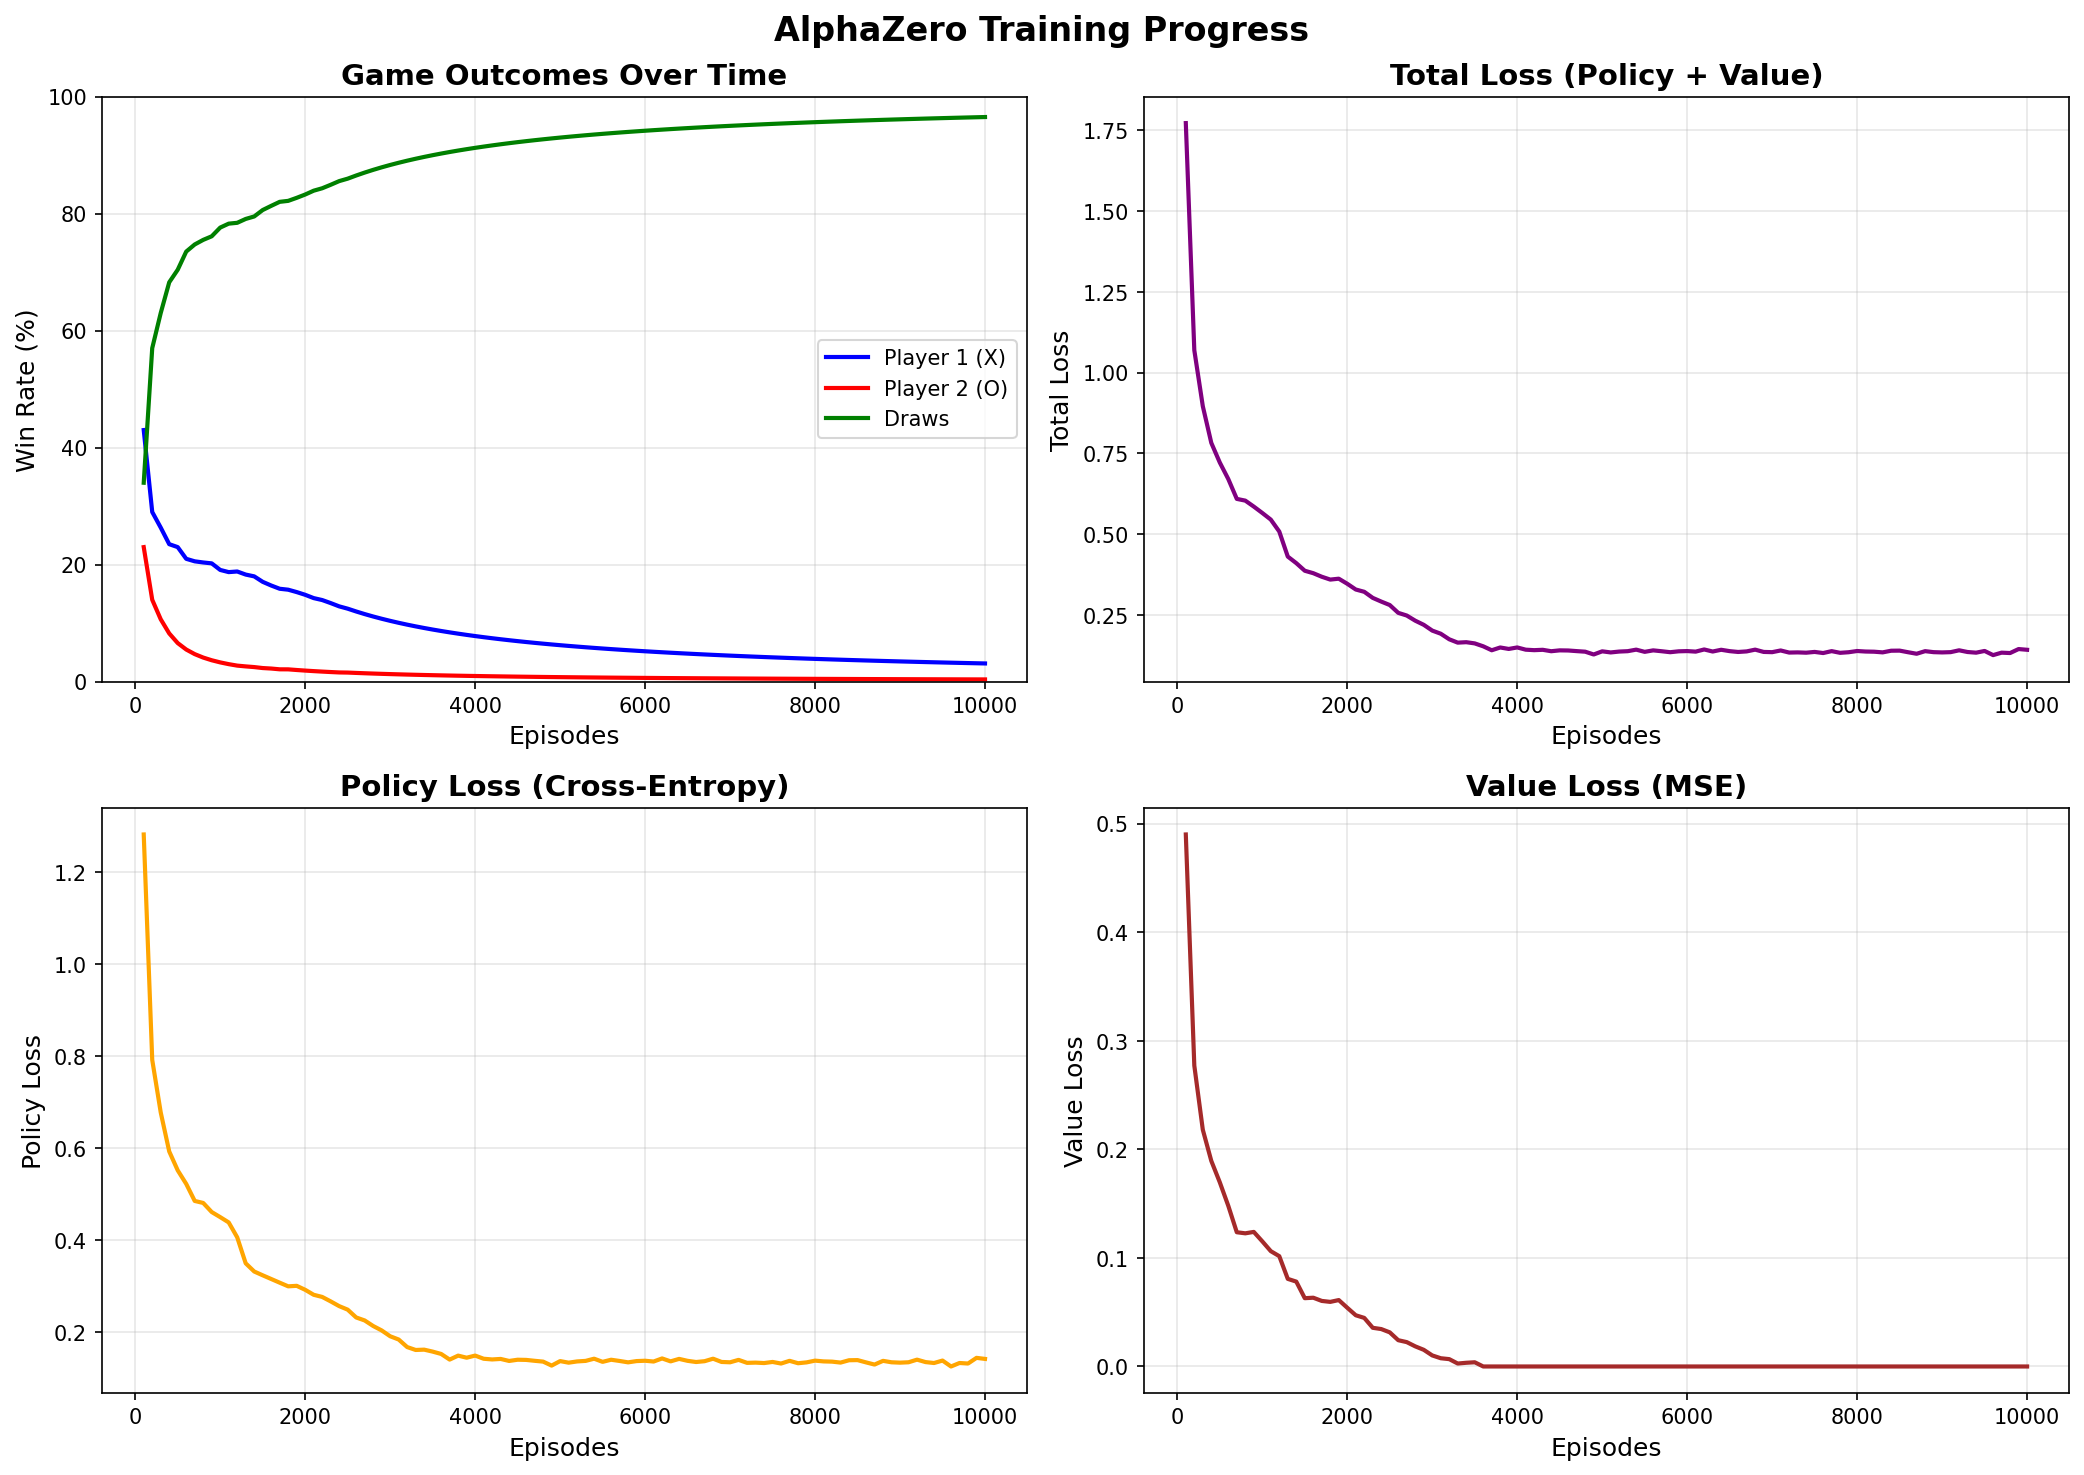
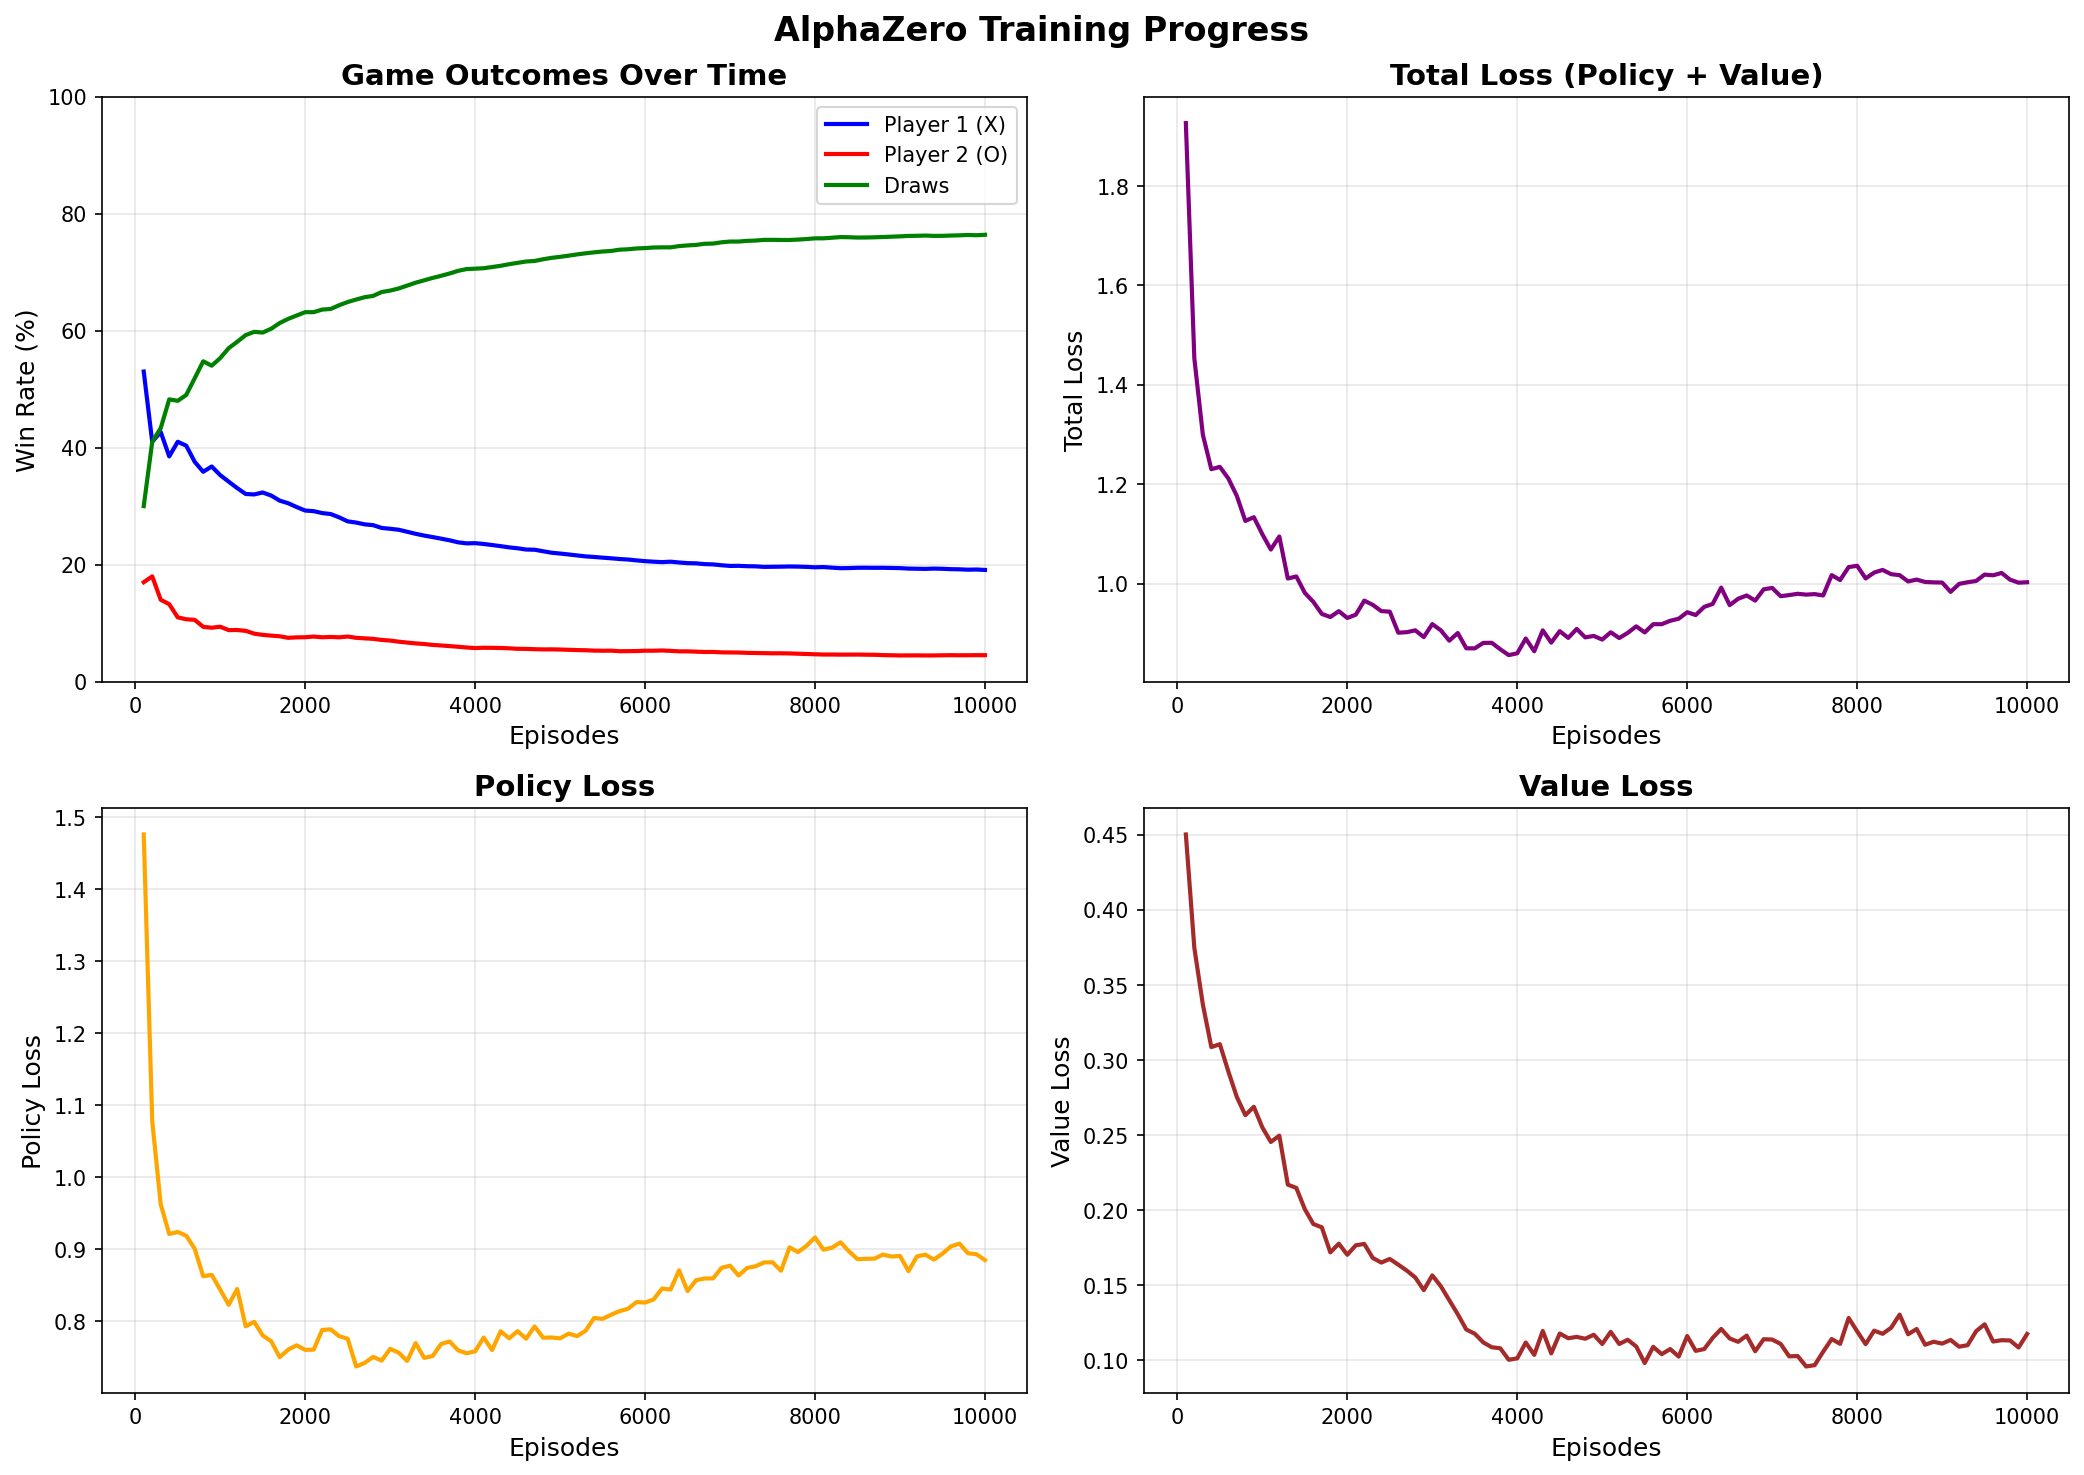
modify labels on graph

diff --git a/src/trainer/train_self_play.py b/src/trainer/train_self_play.py
@@ -696,7 +696,7 @@ def plot_training_progress(history: dict, save_path: str = "training_progress.pn
     ax3.plot(episodes, history['policy_loss'], color='orange', linewidth=2)
     ax3.set_xlabel('Episodes', fontsize=12)
     ax3.set_ylabel('Policy Loss', fontsize=12)
-    ax3.set_title('Policy Loss (Cross-Entropy)', fontsize=14, fontweight='bold')
+    ax3.set_title('Policy Loss', fontsize=14, fontweight='bold')
     ax3.grid(True, alpha=0.3)
 
     # Plot 4: Value loss over time
@@ -704,7 +704,7 @@ def plot_training_progress(history: dict, save_path: str = "training_progress.pn
     ax4.plot(episodes, history['value_loss'], color='brown', linewidth=2)
     ax4.set_xlabel('Episodes', fontsize=12)
     ax4.set_ylabel('Value Loss', fontsize=12)
-    ax4.set_title('Value Loss (MSE)', fontsize=14, fontweight='bold')
+    ax4.set_title('Value Loss', fontsize=14, fontweight='bold')
     ax4.grid(True, alpha=0.3)
 
     plt.tight_layout()
@@ -713,53 +713,14 @@ def plot_training_progress(history: dict, save_path: str = "training_progress.pn
     plt.close()
 
 
-# ---------- 8. EVALUATION ----------
-
-def evaluate_model(model: nn.Module, num_games: int = 100, device: str = 'cpu', num_simulations: int = 100):
-    """
-    Evaluate the trained model by playing games with MCTS.
-
-    Args:
-        model: Trained TicTacToeNet
-        num_games: Number of evaluation games
-        device: 'cpu' or 'cuda'
-        num_simulations: Number of MCTS simulations for evaluation (higher = stronger)
-    """
-    model.eval()
-    # Evaluation: use greedy selection (temperature=0) and no exploration noise
-    game_engine = SelfPlayGame(model, device, num_simulations=num_simulations,
-                               temperature=0.0, add_noise=False)
-
-    results = {'player1_wins': 0, 'player2_wins': 0, 'draws': 0}
-
-    print(f"\nEvaluating model over {num_games} games (MCTS with {num_simulations} sims)...")
-
-    for _ in range(num_games):
-        game_result, _ = game_engine.play_game()
-
-        if game_result == 1:
-            results['player1_wins'] += 1
-        elif game_result == -1:
-            results['player2_wins'] += 1
-        else:
-            results['draws'] += 1
-
-    print(f"\nEvaluation Results:")
-    print(f"  Player 1 wins: {results['player1_wins']} ({100*results['player1_wins']/num_games:.1f}%)")
-    print(f"  Player 2 wins: {results['player2_wins']} ({100*results['player2_wins']/num_games:.1f}%)")
-    print(f"  Draws: {results['draws']} ({100*results['draws']/num_games:.1f}%)")
-
-    return results
-
-
-# ---------- 9. MAIN ENTRY ----------
+# ---------- 8. MAIN ENTRY ----------
 
 if __name__ == "__main__":
     print("=" * 60)
     print("ALPHAZERO-STYLE MCTS + NN TRAINING FOR TIC-TAC-TOE")
     print("=" * 60)
 
-    # Set device
+    # Set device to GPU if available, otherwise use CPU
     device = 'cuda' if torch.cuda.is_available() else 'cpu'
     print(f"\nUsing device: {device}")
     if device == 'cuda':
@@ -767,14 +728,14 @@ if __name__ == "__main__":
         print(f"   GPU Memory: {torch.cuda.get_device_properties(0).total_memory / 1e9:.1f} GB")
 
     # Create model
-    print("\n[1/4] Initializing AlphaZero-style neural network (policy + value)...")
+    print("\n[1/3] Initializing AlphaZero-style neural network (policy + value)...")
     model = TicTacToeNet()
     total_params = sum(p.numel() for p in model.parameters())
     print(f"   Model parameters: {total_params:,}")
     print(f"   Architecture: 3-plane CNN -> policy head (9) + value head (1)")
 
     # Train with AlphaZero-style self-play
-    print("\n[2/4] Training with AlphaZero-style self-play (MCTS + NN)...")
+    print("\n[2/3] Training with AlphaZero-style self-play (MCTS + NN)...")
     print("NOTE: For optimal play, train for 20k-50k episodes.")
     print("      Current setting (100k) provides near-optimal tactical play.")
     print("-" * 60)
@@ -794,14 +755,9 @@ if __name__ == "__main__":
     )
 
     # Visualize training progress
-    print("\n[3/4] Generating training visualization...")
+    print("\n[3/3] Generating training visualization...")
     print("-" * 60)
     plot_training_progress(history)
-
-    # Evaluate
-    print("\n[4/4] Evaluating trained model...")
-    print("-" * 60)
-    evaluate_model(model, num_games=100, device=device, num_simulations=100)
 
     print("\n" + "=" * 60)
     print("TRAINING COMPLETE - AlphaZero-style model ready!")

diff --git a/visualize_training.py b/visualize_training.py
@@ -50,7 +50,7 @@ def plot_training_progress(history: dict, save_path: str = "training_progress.pn
     ax3.plot(episodes, history['policy_loss'], color='orange', linewidth=2)
     ax3.set_xlabel('Episodes', fontsize=12)
     ax3.set_ylabel('Policy Loss', fontsize=12)
-    ax3.set_title('Policy Loss (Cross-Entropy)', fontsize=14, fontweight='bold')
+    ax3.set_title('Policy Loss', fontsize=14, fontweight='bold')
     ax3.grid(True, alpha=0.3)
 
     # Plot 4: Value loss over time
